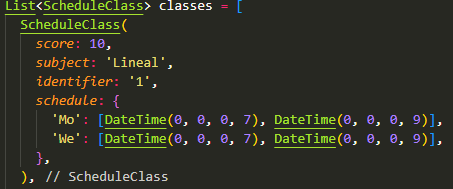
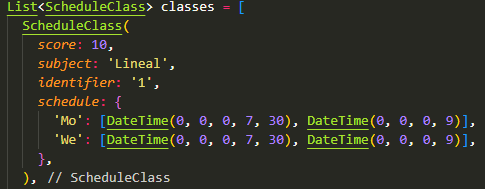
examples for half hour classes

diff --git a/bin/schedule_builder.dart b/bin/schedule_builder.dart
@@ -2,11 +2,4 @@ import 'package:schedule_builder/schedule_builder.dart';
 
 void main(List<String> arguments) {
   ScheduleBuilder.generateSchedule();
-  // ScheduleBuilder.staticName;
-  // final ScheduleBuilder instance = ScheduleBuilder(name: 'PABLITO');
-  // final ScheduleBuilder instance2 = ScheduleBuilder(name: 'jAUN');
-  // instance.name;
-  // instance2.name;
-  // ScheduleBuilder.staticName = 'Pedro';
-  // ScheduleBuilder.staticName = 'Javier';
 }

diff --git a/lib/models/schedule_class.dart b/lib/models/schedule_class.dart
@@ -37,7 +37,7 @@ class ScheduleClass {
   String toString() {
     final parsedSchedule = schedule?.entries
         .map((e) =>
-            '${e.key}: ${e.value[0].hour} hrs. - ${e.value[1].hour} hrs.')
+            '${e.key}: ${e.value[0].hour}:${e.value[0].minute} hrs. - ${e.value[1].hour}:${e.value[1].minute} hrs.')
         .toList();
     return 'Score: $score | Identifier: $identifier | Subject: $subject | Schedule: $parsedSchedule';
   }

diff --git a/lib/schedule_builder.dart b/lib/schedule_builder.dart
@@ -70,8 +70,8 @@ class ScheduleBuilder {
         subject: 'Lineal',
         identifier: '1',
         schedule: {
-          'Mo': [DateTime(0, 0, 0, 7), DateTime(0, 0, 0, 9)],
-          'We': [DateTime(0, 0, 0, 7), DateTime(0, 0, 0, 9)],
+          'Mo': [DateTime(0, 0, 0, 7, 30), DateTime(0, 0, 0, 9)],
+          'We': [DateTime(0, 0, 0, 7, 30), DateTime(0, 0, 0, 9)],
         },
       ),
       ScheduleClass(
